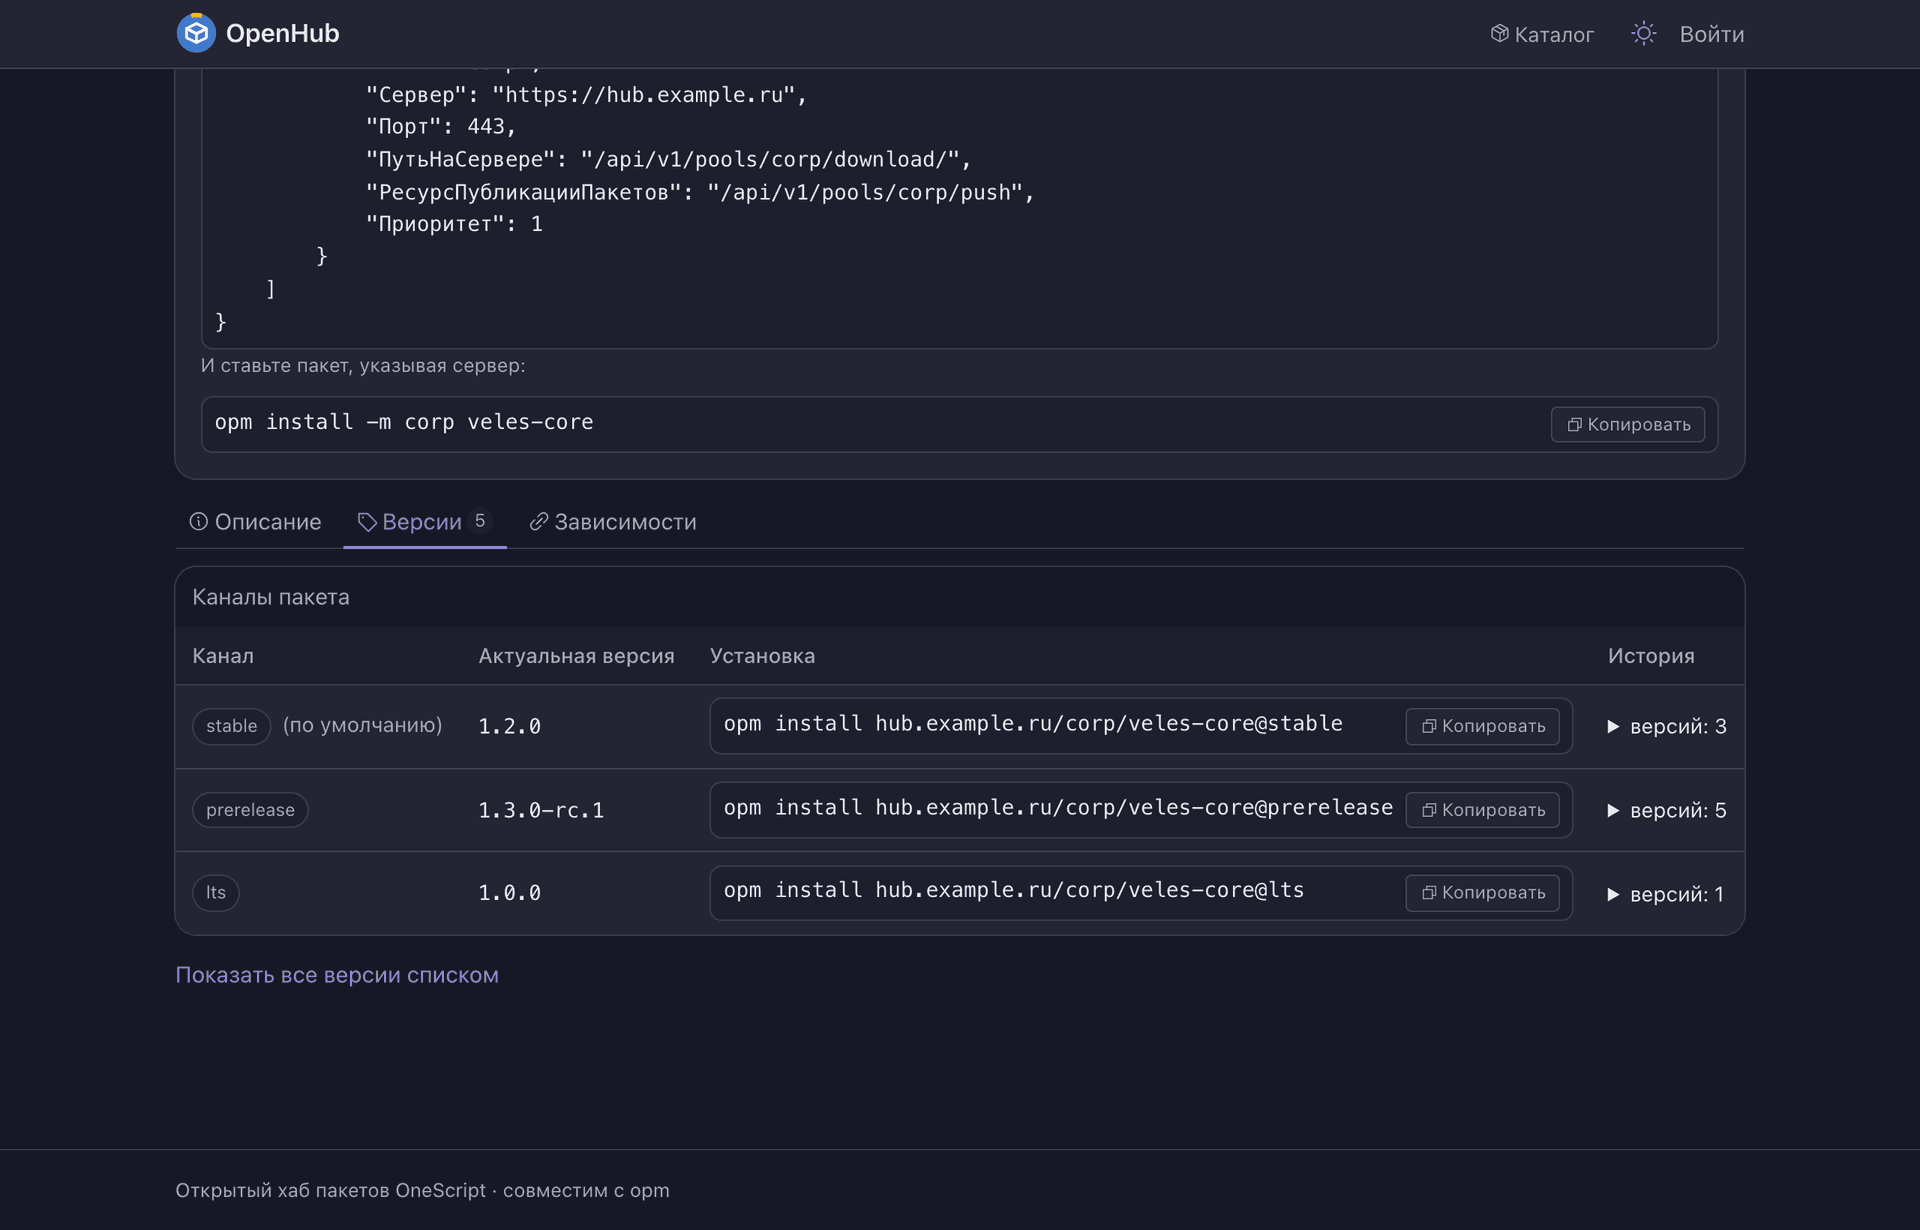
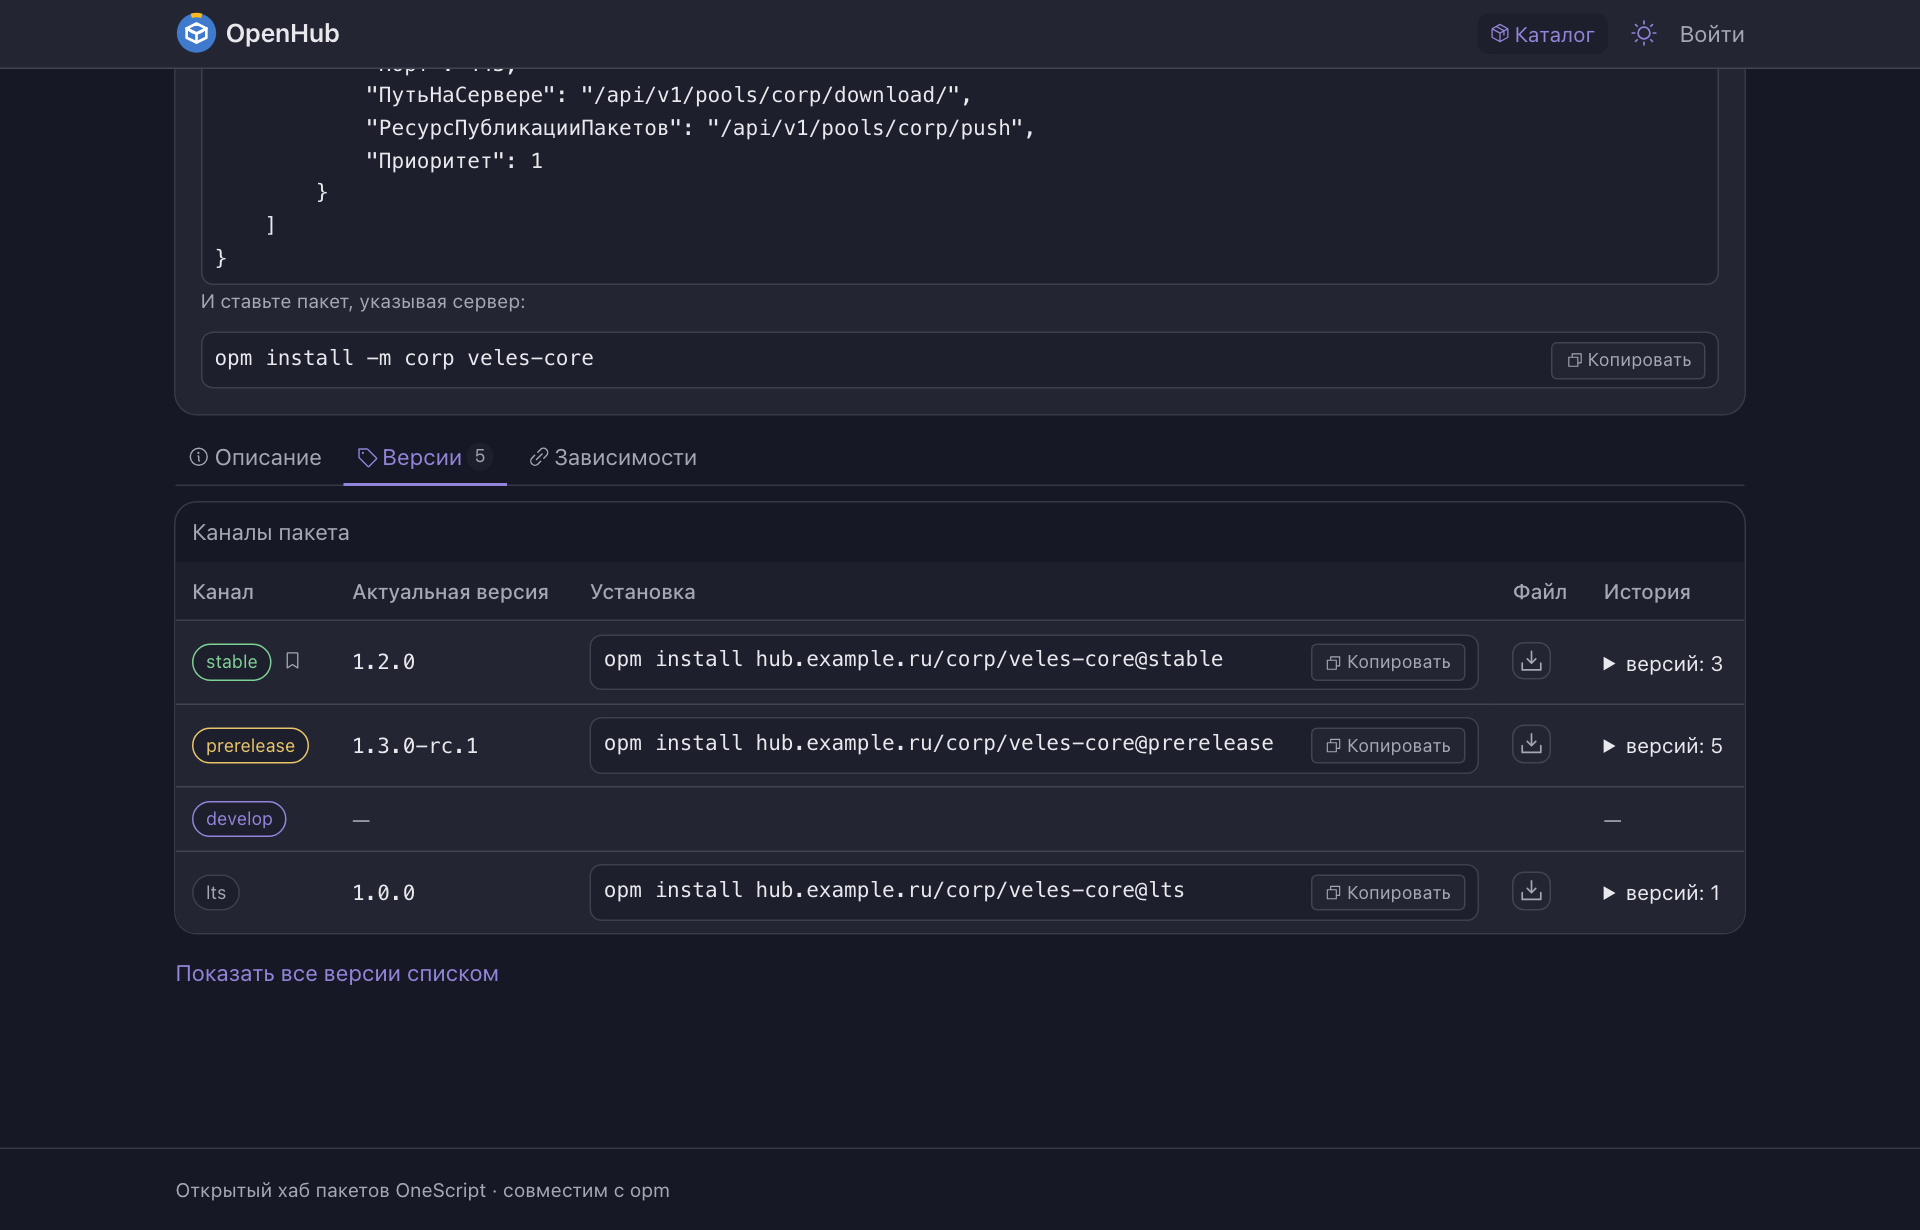
Версия 0.7.16: пакет скачивается файлом прямо со страницы (ИСТ-КАТ-024); эталон регрессии 3896/3880/16/0, 201 набор; скриншот вкладки версий переснят

diff --git a/CLAUDE.md b/CLAUDE.md
@@ -275,7 +275,7 @@
   | --- | --- | --- | --- |
   | смоук | `scripts/смоук.sh` | после каждого шага работы | **33 в 6 наборах, 0 ошибочных / 66 с** (2026-08-10, приёмка волны раскладки) |
   | быстрый (по умолчанию) | `oneunit execute -T хаб -T внешние` | перед коммитом | **не переснят с 2026-08-07** — прежнее число (2617/2597, 140 наборов) устарело на десяток мержей. Кому понадобится уровень — замерь и впиши; экономия к регрессии всё равно около шести процентов (см. ⚠ ниже) |
-  | регрессия | `oneunit execute -T внешние` | перед вливанием в main, после ревью | **3880 обнаружено / 3864 зелёных / 16 пропусков / 0 ошибочных, 200 наборов успешных** (замер 2026-09-11, `2d02df13`, OneScript 2.2.0, autumn-data 2.0.0, релиз 0.7.15: живой слот `SNAPSHOT` источника — ИСТ-ЗЕРК-016, +12 сторожей, регрессия на замороженном main — чистый ноль. Прежние эталоны: 3868 / 3852 / 16 / 0, 200 наборов — 2026-09-06, `d877496e`, релиз 0.7.14: доработка по первому финальному мутационному кругу — 186 мутаций, 15 ложных защит закрыты +23 сторожами, 2354 с; 3845 / 3829 / 16 / 0, 200 наборов — 2026-09-06, `c2606324`, **OneScript 2.2.0, entity 4.4.0.1**, релиз 0.7.12: пятый заход раунда смыслового дублирования — З6, З7, П1 — и трек обновления рантайма О2 влиты, регрессия на замороженном main — чистый ноль; те же числа один в один на `f167f0b7`, релиз 0.7.13 с autumn-data 2.0.0, 2442 с. Прежние эталоны: 3802 / 3786 / 16 / 0, 198 наборов — 2026-09-05, `e3850c13`, релиз 0.7.11 на 2.0.2; Наборов пропущено 3, а с `&Тег("внешние")` их четыре — это не расхождение: `СмокБэкендов_Тесты` объявлен `&Изолированный(Уровень = "Процесс")`, а OneUnit 0.4.1 не передаёт фильтр тегов в изолированные наборы (см. ЗНАНИЕ), поэтому он запускается и сам пропускает свои тесты по окружению — они и входят в 16 пропущенных. Прежние эталоны: 3762 / 3746 / 16 / 0, 195 наборов — 2026-09-05, `adf26019`, релиз 0.7.10, волна 2 и заходы 2–3; 3655 / 3639 / 16 / 0, 186 наборов — 2026-09-05, `f2234e0b`, релиз 0.7.9, волна 1; 3545 / 3529 / 16 / 0, 172 набора — 2026-09-05, `0d0450c6`, релиз 0.7.8, переход на errors/ip/url; 3487 / 3471 / 16 / 0, 170 наборов — 2026-09-04, `1cb24f98`, четыре трека библиотек; 3377 / 3361 / 16 / 0, 162 набора — 2026-09-03, раунд рефакторинга, волны 1–3; 3373 / 3357 / 16 / 0, 162 набора — волна 1 того же дня; 3327 / 3311 / 16 / 0, 160 наборов — трек П, `5fad166e`; 3289 / 3273 / 16 / 0, 157 наборов — 2026-08-20, `1f0ab977`); 3289 / 3273 / 16 / 0, 157 наборов — 2026-08-20, `1f0ab977`) |
+  | регрессия | `oneunit execute -T внешние` | перед вливанием в main, после ревью | **3896 обнаружено / 3880 зелёных / 16 пропусков / 0 ошибочных, 201 набор успешный** (замер 2026-09-11, `bde04241`, OneScript 2.2.0, autumn-data 2.0.0, релиз 0.7.16: пакет скачивается файлом со страницы — ИСТ-КАТ-024, +16 сторожей и набор `АдресаВыдачи_Тесты`, регрессия на замороженном main — чистый ноль. Прежние эталоны: 3880 / 3864 / 16 / 0, 200 наборов — 2026-09-11, `2d02df13`, релиз 0.7.15: живой слот `SNAPSHOT` источника — ИСТ-ЗЕРК-016, +12 сторожей; 3868 / 3852 / 16 / 0, 200 наборов — 2026-09-06, `d877496e`, релиз 0.7.14: доработка по первому финальному мутационному кругу — 186 мутаций, 15 ложных защит закрыты +23 сторожами, 2354 с; 3845 / 3829 / 16 / 0, 200 наборов — 2026-09-06, `c2606324`, **OneScript 2.2.0, entity 4.4.0.1**, релиз 0.7.12: пятый заход раунда смыслового дублирования — З6, З7, П1 — и трек обновления рантайма О2 влиты, регрессия на замороженном main — чистый ноль; те же числа один в один на `f167f0b7`, релиз 0.7.13 с autumn-data 2.0.0, 2442 с. Прежние эталоны: 3802 / 3786 / 16 / 0, 198 наборов — 2026-09-05, `e3850c13`, релиз 0.7.11 на 2.0.2; Наборов пропущено 3, а с `&Тег("внешние")` их четыре — это не расхождение: `СмокБэкендов_Тесты` объявлен `&Изолированный(Уровень = "Процесс")`, а OneUnit 0.4.1 не передаёт фильтр тегов в изолированные наборы (см. ЗНАНИЕ), поэтому он запускается и сам пропускает свои тесты по окружению — они и входят в 16 пропущенных. Прежние эталоны: 3762 / 3746 / 16 / 0, 195 наборов — 2026-09-05, `adf26019`, релиз 0.7.10, волна 2 и заходы 2–3; 3655 / 3639 / 16 / 0, 186 наборов — 2026-09-05, `f2234e0b`, релиз 0.7.9, волна 1; 3545 / 3529 / 16 / 0, 172 набора — 2026-09-05, `0d0450c6`, релиз 0.7.8, переход на errors/ip/url; 3487 / 3471 / 16 / 0, 170 наборов — 2026-09-04, `1cb24f98`, четыре трека библиотек; 3377 / 3361 / 16 / 0, 162 набора — 2026-09-03, раунд рефакторинга, волны 1–3; 3373 / 3357 / 16 / 0, 162 набора — волна 1 того же дня; 3327 / 3311 / 16 / 0, 160 наборов — трек П, `5fad166e`; 3289 / 3273 / 16 / 0, 157 наборов — 2026-08-20, `1f0ab977`); 3289 / 3273 / 16 / 0, 157 наборов — 2026-08-20, `1f0ab977`) |
   | всё, включая внешние | `oneunit execute` + `OSHUB_S3_SMOKE`, `OSHUB_TEST_PG_DSN`, `OSHUB_MIRROR_LIVE` | руками, когда подняты MinIO и PostgreSQL | 2429 (устарело) |
 
   ⚠ **Числа волны 2026-08-08 меняются каждый день.** Кит уехал библиотекой веткой
